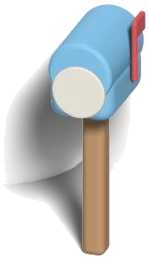
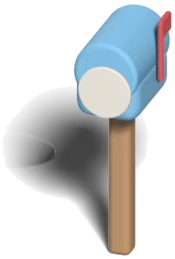
yard: move mailbox inside the zone-3 gate (was hidden by the stage-4 tree); test page: actionless items -> stand beside

diff --git a/design/yard_test/index.html b/design/yard_test/index.html
@@ -305,7 +305,11 @@ function tap(x, y) {
     const key = ITEM_ACT[it.id] || it.id, v = Y.walk.interact[key];
     if (v) { const a = { id: key, ...v }; goTo(a.enter || a.stand, a); return; }   // item with an action: walk there and do it
     const fb = Y.walk.item_blocked[it.id];                                        // no action: walk up to its front edge
-    if (fb) { const b = fb.reduce((m, q) => q[1] > m[1] ? q : m); goTo([b[0], b[1] + 40]); return; }
+    if (fb) {                                   // stand beside it (not in front, the pet would hide it), the side nearer the pet
+      const L = fb.reduce((m, q) => q[0] < m[0] ? q : m), Rr = fb.reduce((m, q) => q[0] > m[0] ? q : m);
+      const opts = [[L[0] - 90, L[1] + 10], [Rr[0] + 90, Rr[1] + 10]].filter(p => walkable(...p)).sort((a, b) => Math.hypot(a[0] - pet.x, a[1] - pet.y) - Math.hypot(b[0] - pet.x, b[1] - pet.y));
+      const b = fb.reduce((m, q) => q[1] > m[1] ? q : m); goTo(opts[0] || [b[0], b[1] + 40]); return;
+    }
   }
   if (inPoly(x, y, Y.walk.blocked.pond)) { const a = { id: "pond", ...Y.walk.interact.pond }; goTo(a.enter, a); return; }
   goTo([x, y]);

diff --git a/scripts/blender/yard.py b/scripts/blender/yard.py
@@ -65,7 +65,7 @@ def ground(X, Y, z=FLOOR):
 TREE_PX = (215, 790)
 POND_PX = (700, 1095); POND_R = (0.55, 0.36)
 SPOT_PX = {
-    "mailbox": (300, 585), "tent": (770, 640), "bench": (480, 860), "bird_feeder": (960, 900),
+    "mailbox": (720, 1745), "tent": (770, 640), "bench": (480, 860), "bird_feeder": (960, 900),
     "hammock": (250, 1180), "picnic_mat": (430, 1440), "flower_bed": (790, 1470), "garden_lamp": (110, 1560),
     "pinwheel": (1000, 1290),
 }

diff --git a/docs/WORLD.md b/docs/WORLD.md
@@ -65,7 +65,7 @@
 - 그림: design/world/yard/ (시안 yard_v1_daynight.png, 걷기 영역 yard_v1_walk.png), 스크립트 scripts/blender/yard.py
 - 보이는 너비 2.7(방·텃밭과 같은 단짝 크기), 카메라 25°. 하늘이 위쪽에 조금 보이게 둠(밤에 별·달이 보이는 자리) — 텃밭은 하늘을 가렸지만 마당은 열린 곳이라 뒤 나무를 2그루만 남김
 - 기본(무료): 잔디, 뒤 생울타리, **추억 나무**(왼쪽 뒤), **작은 연못**(가운데 오른쪽, 연잎), 징검돌 길(왼쪽에서 들어옴 = 방에서 오는 길)
-- 소품 자리(월드 좌표, 단짝 키 = 1): 뒤줄 = 우체통(-0.62, 1.95) · 텐트(0.3, 1.9) / 가운데 = 벤치(-0.35, 1.1) · 새 모이통(0.92, 1.05) · 해먹(-0.95, 0.32) · 오리 튜브(연못 위) / 앞줄 = 정원등(-1.0, -0.42) · 피크닉 매트(-0.25, -0.5) · 화단(0.8, -0.62) · 바람개비(1.28, -0.42)
+- 소품 자리(월드 좌표, 단짝 키 = 1): 뒤줄 = 텐트(0.3, 1.9) / 우체통 = 3구역 울타리 문 안쪽, 길 오른쪽(캔버스 720,1745 — 2026-11-11 대표 요청으로 옮김, 4단계 나무에 가려서) / 가운데 = 벤치(-0.35, 1.1) · 새 모이통(0.92, 1.05) · 해먹(-0.95, 0.32) · 오리 튜브(연못 위) / 앞줄 = 정원등(-1.0, -0.42) · 피크닉 매트(-0.25, -0.5) · 화단(0.8, -0.62) · 바람개비(1.28, -0.42)
   - 마당은 소품마다 자기 자리 1개(바꿔 끼우기 없음). 유료 테마는 같은 자리에 다른 모양(예: 캠핑 세트 = 텐트·정원등·매트의 다른 버전)
 - 단짝 기본 자리: (-0.2, 0.45) — 벤치 앞, 연못 왼쪽
 - **걷기 영역**(manifest spaces.yard.walk): area(화면 앞 1/6·생울타리 앞 0.3 뺀 다각형) − blocked(연못·나무 밑동) − item_blocked[가진 소품](바닥 면적). 탭한 곳이 밖이면 가장 가까운 안쪽 점
@@ -262,7 +262,7 @@
 ### 다른 스레드 요청 정리 (2026-11-10, 웹 테스트 후)
 - 대표 확정: 화면 수치(엿보기 600, 따라가기 0.3, 여유 120px, 복귀 대기 3초, 복귀 1.2초), **줌 유지**(손가락으로 바꾸기 전까지 그대로, 마당을 나갔다 와도 유지)
 - 캐릭터: 아래 '25° 단짝 동작' 9종 + 요구 사항 — 600×800 투명, 발 위치는 텃밭 클립과 같게(walk.pet), 걷기는 루프(왼쪽 = 오른쪽 뒤집기), 동작은 들어가기·유지 루프·나오기(벤치·해먹·매트는 5~10초 유지), 물장구는 하반신이 물에 잠긴다고 보고 위만 정성껏, 열매 보여주기는 뒷모습에서 시작. 밤 색은 앱이 입히니 낮 버전만. 우선순위: 걷기 3방향(텃밭도 씀) → 벤치·매트(먹이기, Y5) → 나머지
-- 개발: (1) 마당 열림 = 기록한 날 누적 7일(지금 YardPage.tsx의 기록 10개 대체, FEATURES 7장은 기능 스레드가 반영 완료) (2) 마당 화면 = export README '마당' 절 그대로(타일, 그리는 순서, sort_line, 밤 색 입히기, 걷기 A*, 카메라 수치, 두 손가락 줌·유지) — 참고 구현 design/yard_test/index.html (3) 구역 구매(60·120씨앗, 잠긴 구역·문 탭 → 구매 시트, 영구) (4) 소품 10개 상점·구매·마당에 표시 (5) 추억 나무 단계(기록한 날 10/30/60) + 열매 탭 → 지난 기록 카드(S11, 기능 스레드와 문구) (6) 손님 30%, 실제 시간 낮·밤 (7) 피크닉 매트에서 먹이기(Y5) (8) 대표·개발 빌드용 테스트 스위치: 마당 바로 열기, 구역 모두 열기, 씨앗 넉넉히 (10) **소품 탭 → 단짝이 가서 그 동작**(대표 결정 2026-11-11): 산 소품·나무·연못을 탭하면 그리로 걸어가 동작 5~10초(벤치 앉기·해먹 눕기·화단 냄새·오리 튜브/연못 = 물장구·나무 = 열매 보여주기, 매트는 지금처럼 먹이기). 동작 없는 소품(바람개비·우체통·정원등·새 모이통·텐트)은 그 앞까지 걸어감. 탭 판정은 그림의 보이는 픽셀, 앞에 그린 것 먼저 — 참고 design/yard_test tapItem() (9) 25° 클립이 오기 전엔 테스트 페이지처럼 대기 클립 + 통통 튀기로 임시 표시
+- 개발: (1) 마당 열림 = 기록한 날 누적 7일(지금 YardPage.tsx의 기록 10개 대체, FEATURES 7장은 기능 스레드가 반영 완료) (2) 마당 화면 = export README '마당' 절 그대로(타일, 그리는 순서, sort_line, 밤 색 입히기, 걷기 A*, 카메라 수치, 두 손가락 줌·유지) — 참고 구현 design/yard_test/index.html (3) 구역 구매(60·120씨앗, 잠긴 구역·문 탭 → 구매 시트, 영구) (4) 소품 10개 상점·구매·마당에 표시 (5) 추억 나무 단계(기록한 날 10/30/60) + 열매 탭 → 지난 기록 카드(S11, 기능 스레드와 문구) (6) 손님 30%, 실제 시간 낮·밤 (7) 피크닉 매트에서 먹이기(Y5) (8) 대표·개발 빌드용 테스트 스위치: 마당 바로 열기, 구역 모두 열기, 씨앗 넉넉히 (10) **소품 탭 → 단짝이 가서 그 동작**(대표 결정 2026-11-11): 산 소품·나무·연못을 탭하면 그리로 걸어가 동작 5~10초(벤치 앉기·해먹 눕기·화단 냄새·오리 튜브/연못 = 물장구·나무 = 열매 보여주기, 매트는 지금처럼 먹이기). 동작 없는 소품(바람개비·우체통·정원등·새 모이통·텐트)은 그 앞까지 걸어감. 탭 판정은 그림의 보이는 픽셀, 앞에 그린 것 먼저 — 참고 design/yard_test tapItem() (11) **우체통 자리 이동**(2026-11-11): 나무 뒤 → 3구역 울타리 문 안쪽 길 오른쪽. manifest items.mailbox·item_blocked.mailbox + yard/mailbox.webp만 바뀜 → `gen_world.py`로 다시 가져가기. 동작 없는 소품을 탭하면 앞이 아니라 옆(단짝에 가까운 쪽)에 서기(앞에 서면 소품을 가림) (9) 25° 클립이 오기 전엔 테스트 페이지처럼 대기 클립 + 통통 튀기로 임시 표시
   - → 2026-11-11 앱 스레드: (1)~(9) 구현 완료(웹 확인). 걷기는 도착한 25° 걷기 클립 사용, 자리 동작은 대기 + 통통 임시. 상세 DEV.md '마당'
 
 ### 25° 단짝 동작 (캐릭터 스레드)

diff --git a/docs/STATUS.md b/docs/STATUS.md
@@ -53,6 +53,7 @@
 - 2026-11-10 (공간→기능·개발·유료화, 대표 결정): **마당은 기록한 날 누적 7일에 열림**(연속 아님, 줄지 않음 — FEATURES.md 7장의 '구슬 10개' 대체, 기능 스레드 반영 필요). 마당 화면은 하단 탭 바 위까지 세로로 길게, 마당은 점점 넓어지는 땅(단짝을 따라 화면 이동), **다음 구역은 씨앗으로 삼**(1 집 앞마당 무료 / 2 개울가 60 / 3 꽃언덕 숲길 120, 구역마다 자기 소품 세트와 함께 업데이트 — 2구역 = 2차 업데이트). 화면 = 단짝 따라가기 + 손가락으로 끌어 둘러보기(손 떼고 3초 뒤 복귀, 탭 = 걸어감, 산 구역 + 잠긴 이웃 260px까지). 마당 export는 큰 캔버스(2160×3100) 타일 + 구역별 걷기 데이터로 교체 — 개발 스레드는 export README '마당' 절대로 → WORLD.md 7장 '마당 확장'
 - 2026-11-10 (공간→개발·유료화): 마당 소품 10개 (대표 확정) = 화단·바람개비 9 / 우체통·오리 튜브·정원등 12 / 피크닉 매트·새 모이통·벤치 18 / 해먹 24 / 텐트 30, **합계 162**(방과 같은 가격대). 마당 소품은 자리 1개씩(바꿔 끼우기 없음) → 유료 마당 테마 = 같은 소품의 다른 모양. 가격을 올려도 열심 사용자가 다 채우는 시점은 1주 미만 늦어질 뿐 → 2차 업데이트는 마당 후 4~6주 목표
 - 2026-11-10 (공간→개발): **마당 그림·텃밭/마당 걷기 데이터 export 완료** → design/world/export/v1 manifest `spaces.yard`(배경 낮/밤, 소품 10 + 밤 버전 2, 화단 꽃 6, 추억 나무 4단계 + 열매, 연못 물, 손님, 걷기 영역·상호작용 지점) + `spaces.garden.walk`. 그리는 법 README '마당' 절, 확인 그림 design/world/yard/yard_v1_daynight.jpg
+- 2026-11-11 (공간→개발): 마당 **우체통을 3구역 울타리 문 안쪽**(길 오른쪽)으로 옮김 — manifest mailbox 항목·item_blocked + yard/mailbox.webp. 앱은 gen_world.py로 다시 가져가야 함. 소품 탭 → 그 동작 / 동작 없는 소품은 옆에 서기 = WORLD 7장 요청 10·11
 - 2026-11-10 (공간→캐릭터·개발, 대표 테스트 후): 마당 화면 수치 확정(엿보기 600, 따라가기 0.3, 여유 120px, 복귀 대기 3초·복귀 1.2초) + **두 손가락 줌아웃, 줌 유지**. 캐릭터·개발 스레드에 요청할 목록 = WORLD.md 7장 '다른 스레드 요청 정리', 참고 구현 = https://csw-yard-test.vercel.app (design/yard_test/index.html)
 - 2026-11-10 (공간→캐릭터): 마당 업데이트용 25° 클립 = 걷기 3방향(앞·뒤·옆, 텃밭 공용), 벤치 앉기, 매트에 앉아 먹기, 해먹 눕기, 물장구(하반신은 앱이 연못 물로 덮음), 냄새 맡기, 열매 보여주기(뒤돌아 나무 가리키기). 위치는 manifest walk.pet(발 기준)
 - 2026-11-11 (캐릭터→개발·공간): **25° 걷기 3방향 완료**(마당·텃밭 공용) → character export v1 `walk_front`/`walk_side`/`walk_back`(반복, 왼쪽 = walk_side 뒤집기, 발 기준점 텃밭과 같음 303,697). 발이 안 미끄러지는 이동 속도 = **걷는 속도 0.9단위/초 = 가로 360px/s·세로 153px/s (대표 결정 11-11, 테스트 페이지에서 느껴 보고)** — 클립 보폭은 0.42 기준이라 발이 조금 미끄러지는 건 감수. manifest `walk.speed_px_s`. 웹 테스트 페이지에 걷기 클립 넣고 기본값 0.9(캐릭터 스레드가 수정) — 개발은 이 값 사용. 다음: 벤치·매트 → 나머지
